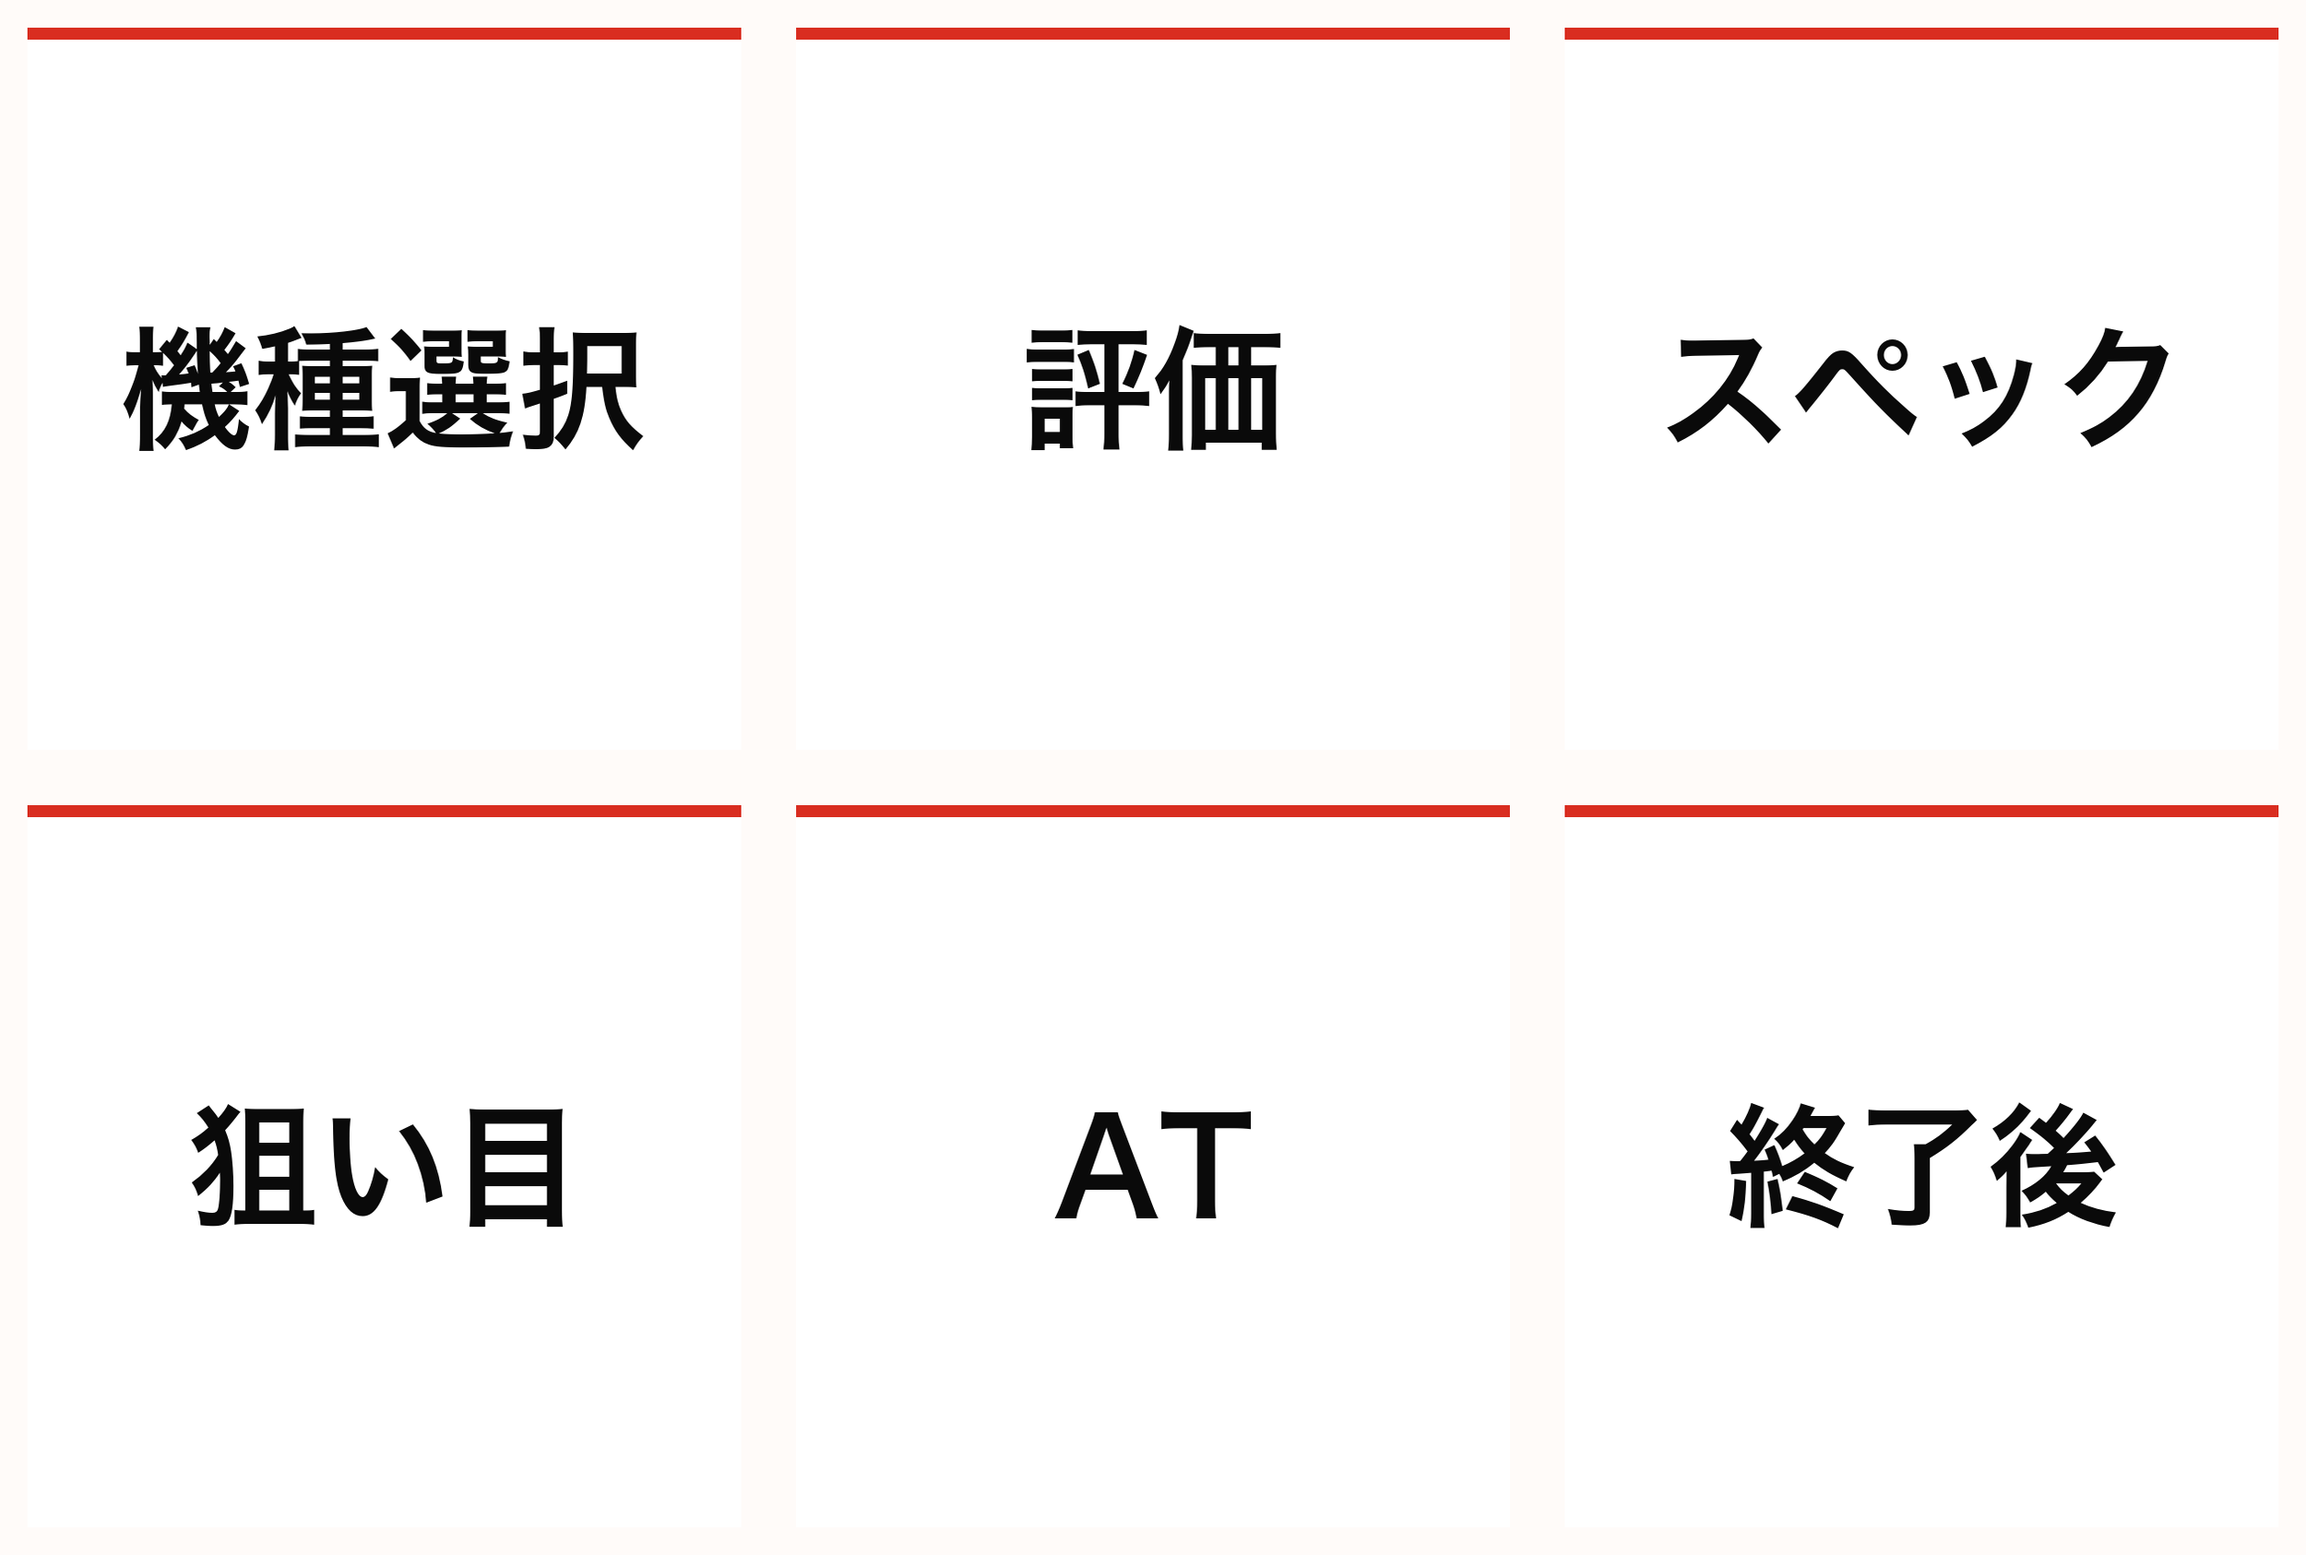
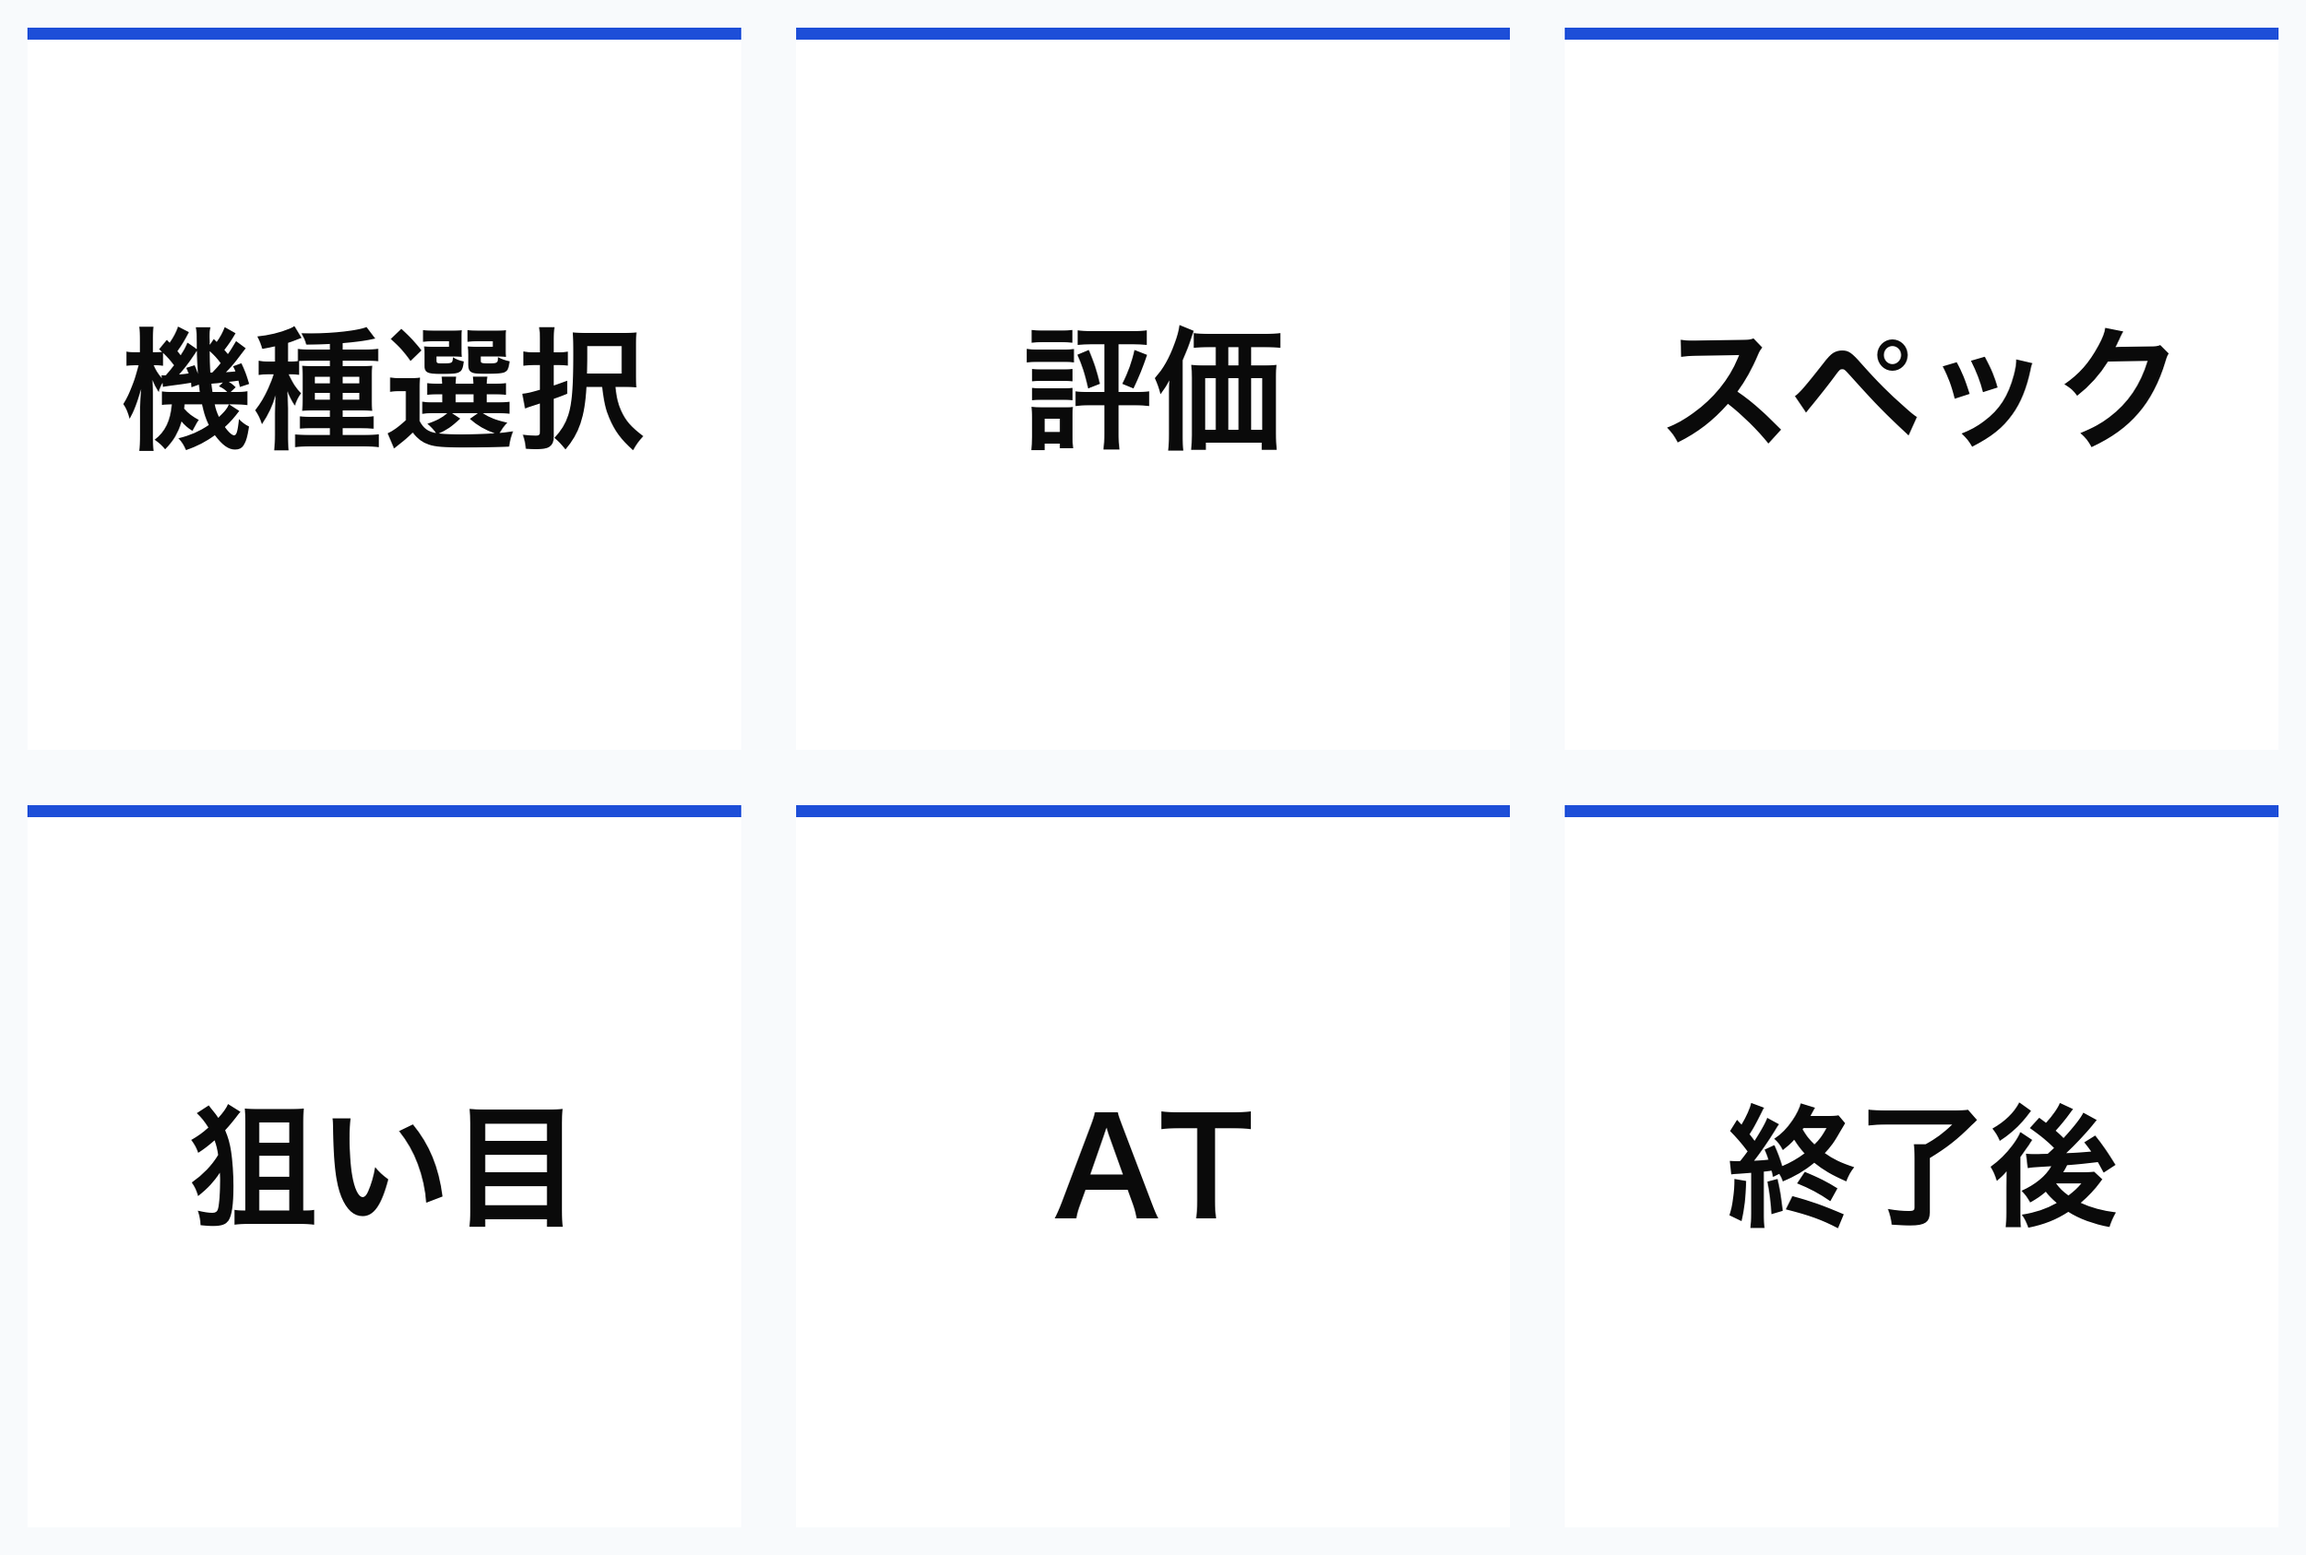
Switch accent color to deep blue across cards and rich menu

diff --git a/src/flex.ts b/src/flex.ts
@@ -6,20 +6,20 @@ interface SectionItem {
 }
 
 const C = {
-  ink: '#0A0A0A',
-  body: '#3F3F46',
-  muted: '#78716C',
-  faint: '#A8A29E',
-  line: '#E7E5E4',
-  hairline: '#F5F5F4',
+  ink: '#0B1220',
+  body: '#334155',
+  muted: '#64748B',
+  faint: '#94A3B8',
+  line: '#E2E8F0',
+  hairline: '#F1F5F9',
   surface: '#FFFFFF',
-  canvas: '#FFFBF9',
-  band: '#FFF4F1',
-  accent: '#D92D20',
-  accentInk: '#B42318',
-  accentSoft: '#FFF1F0',
-  accentLine: '#FECACA',
-  accentFaint: '#FCA5A5',
+  canvas: '#FAFCFF',
+  band: '#F4F8FF',
+  accent: '#1D4ED8',
+  accentInk: '#1E40AF',
+  accentSoft: '#EFF4FF',
+  accentLine: '#BFDBFE',
+  accentFaint: '#93C5FD',
 };
 
 const SECTION_INDEX: Record<string, string> = {
